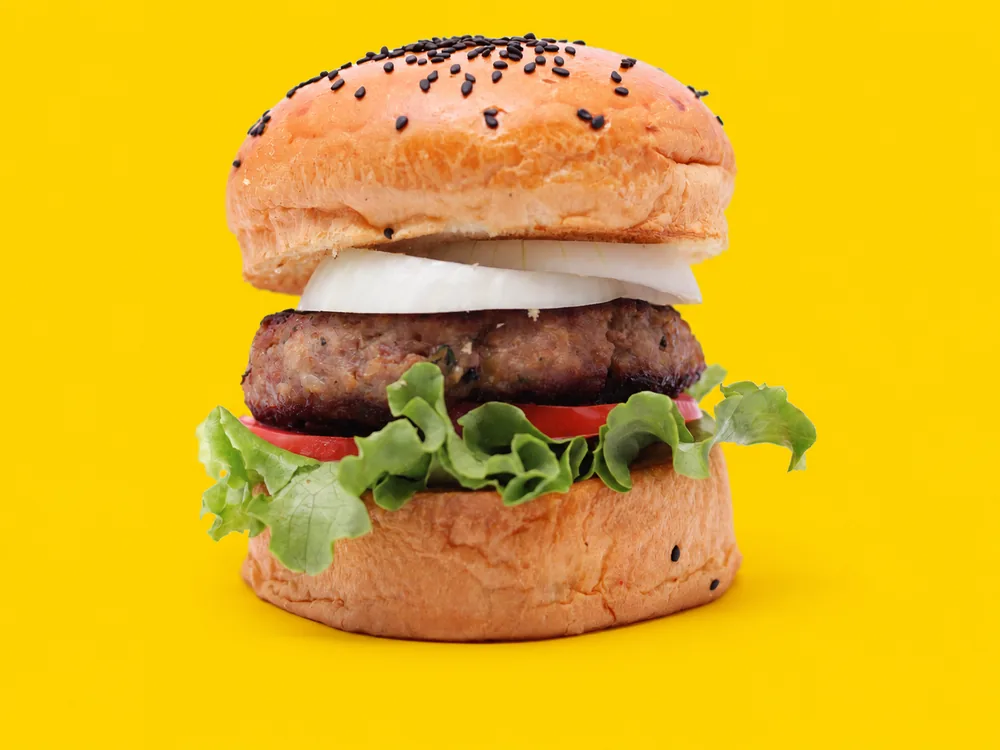
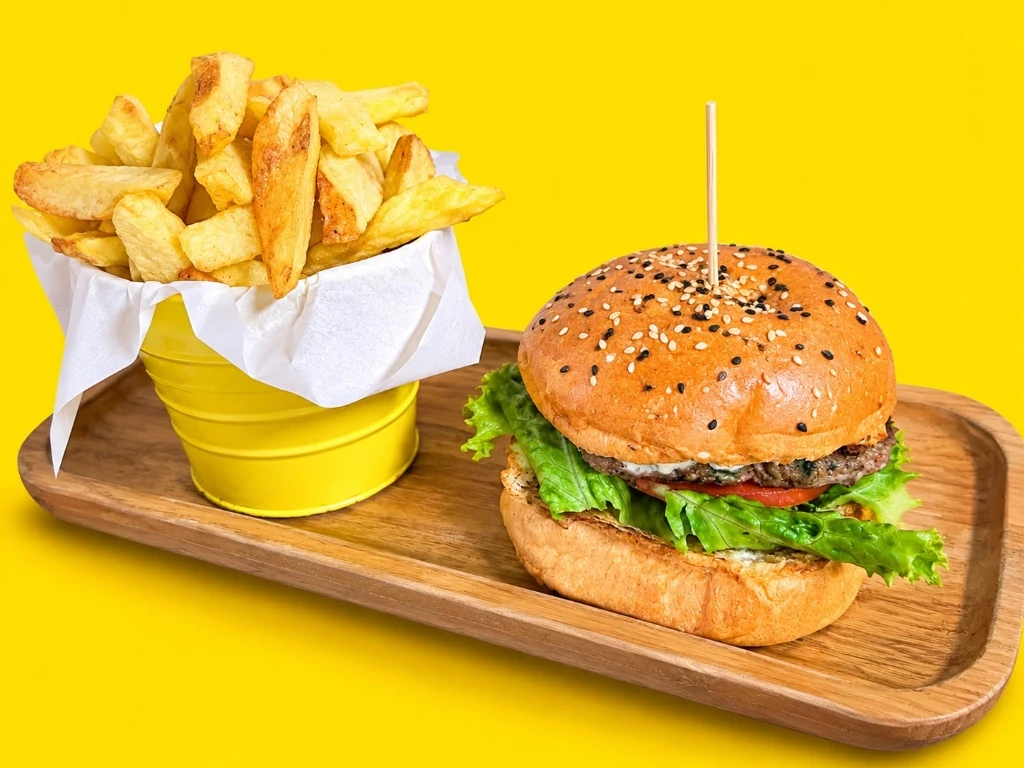
feat: agregar y actualizar fotos de salchipapa a lo pobre, milanesa, jugos, hamburguesas y combo wings

diff --git a/src/data/menuData.ts b/src/data/menuData.ts
@@ -200,11 +200,11 @@ export const MENU_DATA: Category[] = [
     nombre: 'Salchipapas',
     eyebrow: 'Papas crujientes y combinaciones de la casa',
     descripcion: 'Salchicha frankfurter con papas y el complemento que mejor le queda al antojo.',
-    imagen: '/dishes/wings-salchialitas.webp',
+    imagen: '/dishes/salchi-pobre.webp',
     items: [
       { id: 'salchi-tradicional', nombre: 'La Tradicional', descripcion: 'Salchicha frankfurter y papas.', precio: 13 },
       { id: 'salchi-pollo', nombre: 'La Salchipollo', descripcion: 'Salchicha frankfurter, papas y trozos crujientes de pollo.', precio: 16 },
-      { id: 'salchi-pobre', nombre: 'A lo pobre', descripcion: 'Salchicha frankfurter, papas, doble huevo y plátano.', precio: 16 },
+      { id: 'salchi-pobre', nombre: 'A lo pobre', descripcion: 'Salchicha frankfurter, papas, doble huevo y plátano.', precio: 16, imagen: '/dishes/salchi-pobre.webp' },
       { id: 'salchi-carnivora', nombre: 'La Carnívora', descripcion: 'Salchicha frankfurter, papas, doble tocino y chorizo.', precio: 17 },
       { id: 'salchi-burguer', nombre: 'La Burguer', descripcion: 'Salchicha frankfurter, papas y hamburguesa en trozos.', precio: 20 },
       { id: 'salchi-charapa', nombre: 'La Charapa', descripcion: 'Salchicha frankfurter, papas, chorizo amazónico y plátano.', precio: 20 },
@@ -232,7 +232,7 @@ export const MENU_DATA: Category[] = [
         opciones: [{ id: 'presa', nombre: 'Elige tu presa', tipo: 'single', requerida: true, opciones: [{ id: 'pecho', nombre: 'Pecho' }, { id: 'entrepierna', nombre: 'Entrepierna' }] }],
       },
       { id: 'broster-montada', nombre: 'La Montada Broster', descripcion: 'Dos alitas broster, ensalada y papas.', precio: 16 },
-      { id: 'milanesa-crunch', nombre: 'Milanesa Crunch', descripcion: 'Una pieza crocante de filete de pollo con papas.', precio: 15 },
+      { id: 'milanesa-crunch', nombre: 'Milanesa Crunch', descripcion: 'Una pieza crocante de filete de pollo con papas.', precio: 15, imagen: '/dishes/milanesa-crunch.webp' },
       {
         id: 'mostrito-ala-pierna',
         nombre: 'Mostrito Crunch - ala o pierna',
@@ -308,7 +308,7 @@ export const MENU_DATA: Category[] = [
     descripcion: 'Jugos, limonadas, frozen, gaseosas y bebidas calientes.',
     imagen: '/dishes/milkshake-oreo.webp',
     items: [
-      { id: 'beb-jugos-clasicos', nombre: 'Jugos clásicos', descripcion: 'Piña, fresa o papaya.', precio: 7, opciones: [{ id: 'sabor', nombre: 'Elige un sabor', tipo: 'single', requerida: true, opciones: [{ id: 'pina', nombre: 'Piña' }, { id: 'fresa', nombre: 'Fresa' }, { id: 'papaya', nombre: 'Papaya' }] }] },
+      { id: 'beb-jugos-clasicos', nombre: 'Jugos clásicos', descripcion: 'Piña, fresa o papaya.', precio: 7, imagen: '/dishes/jugos-clasicos.webp', opciones: [{ id: 'sabor', nombre: 'Elige un sabor', tipo: 'single', requerida: true, opciones: [{ id: 'pina', nombre: 'Piña' }, { id: 'fresa', nombre: 'Fresa' }, { id: 'papaya', nombre: 'Papaya' }] }] },
       { id: 'beb-limonadas', nombre: 'Limonadas', descripcion: 'Limón, fresa o piña.', precio: 8, imagen: '/dishes/limonada-fresa.webp', opciones: [{ id: 'sabor', nombre: 'Elige un sabor', tipo: 'single', requerida: true, opciones: [{ id: 'limon', nombre: 'Limón' }, { id: 'fresa', nombre: 'Fresa' }, { id: 'pina', nombre: 'Piña' }] }] },
       { id: 'beb-frozen', nombre: 'Frozen', descripcion: 'Limón, fresa o maracuyá.', precio: 10, opciones: [{ id: 'sabor', nombre: 'Elige un sabor', tipo: 'single', requerida: true, opciones: [{ id: 'limon', nombre: 'Limón' }, { id: 'fresa', nombre: 'Fresa' }, { id: 'maracuya', nombre: 'Maracuyá' }] }] },
       { id: 'beb-especiales', nombre: 'Especiales', descripcion: 'Maracumango o hierba luisa.', precio: 11, opciones: [{ id: 'sabor', nombre: 'Elige un sabor', tipo: 'single', requerida: true, opciones: [{ id: 'maracumango', nombre: 'Maracumango' }, { id: 'hierba-luisa', nombre: 'Hierba luisa' }] }] },
